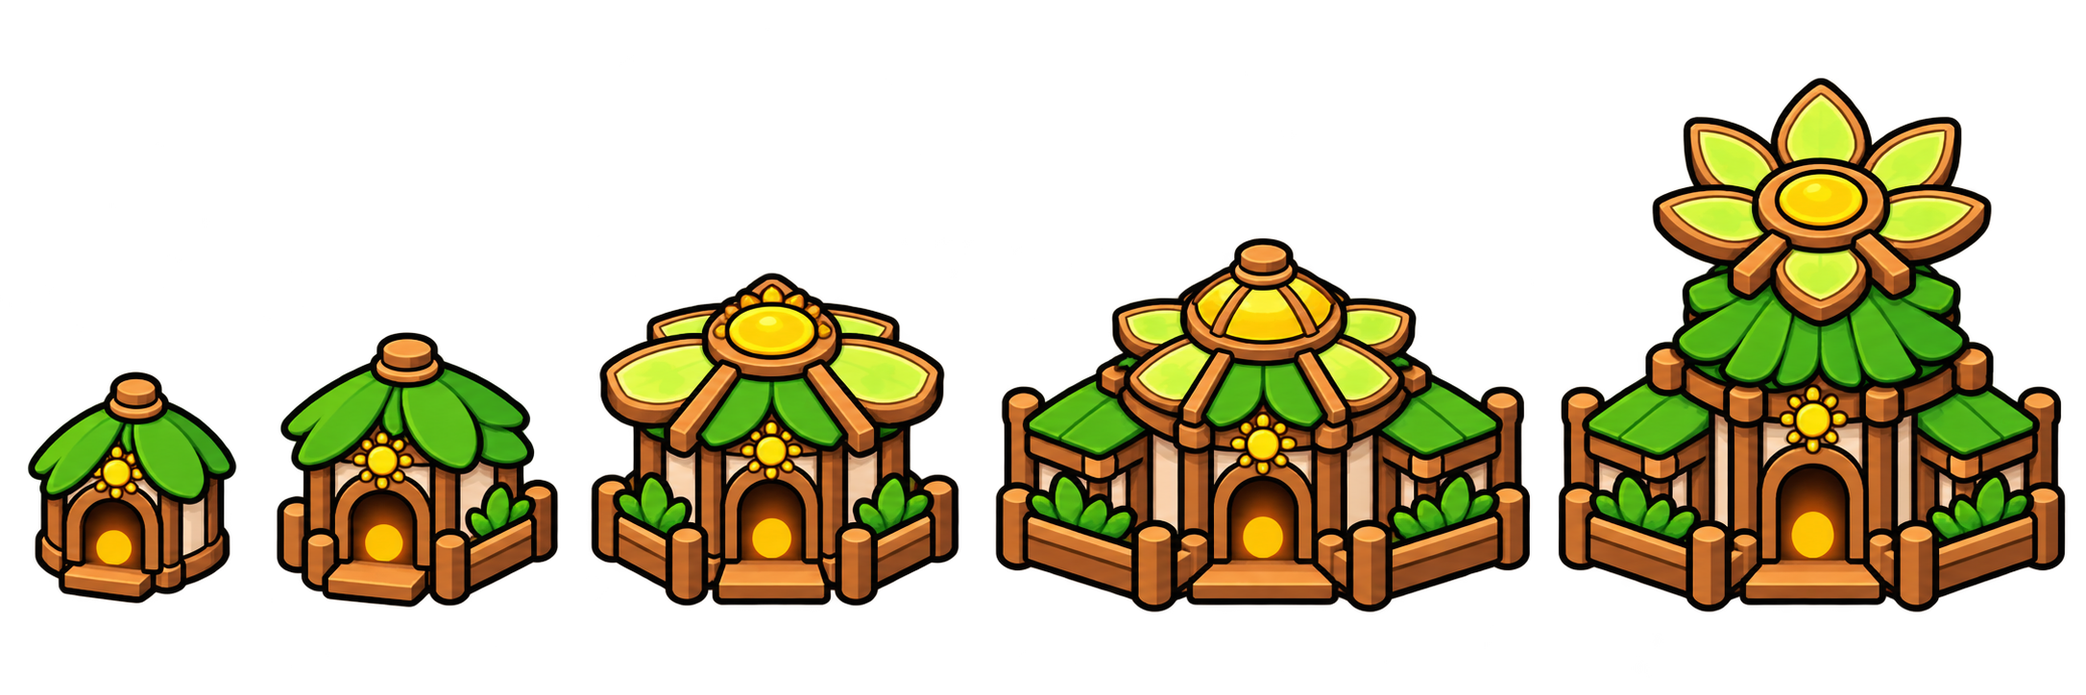
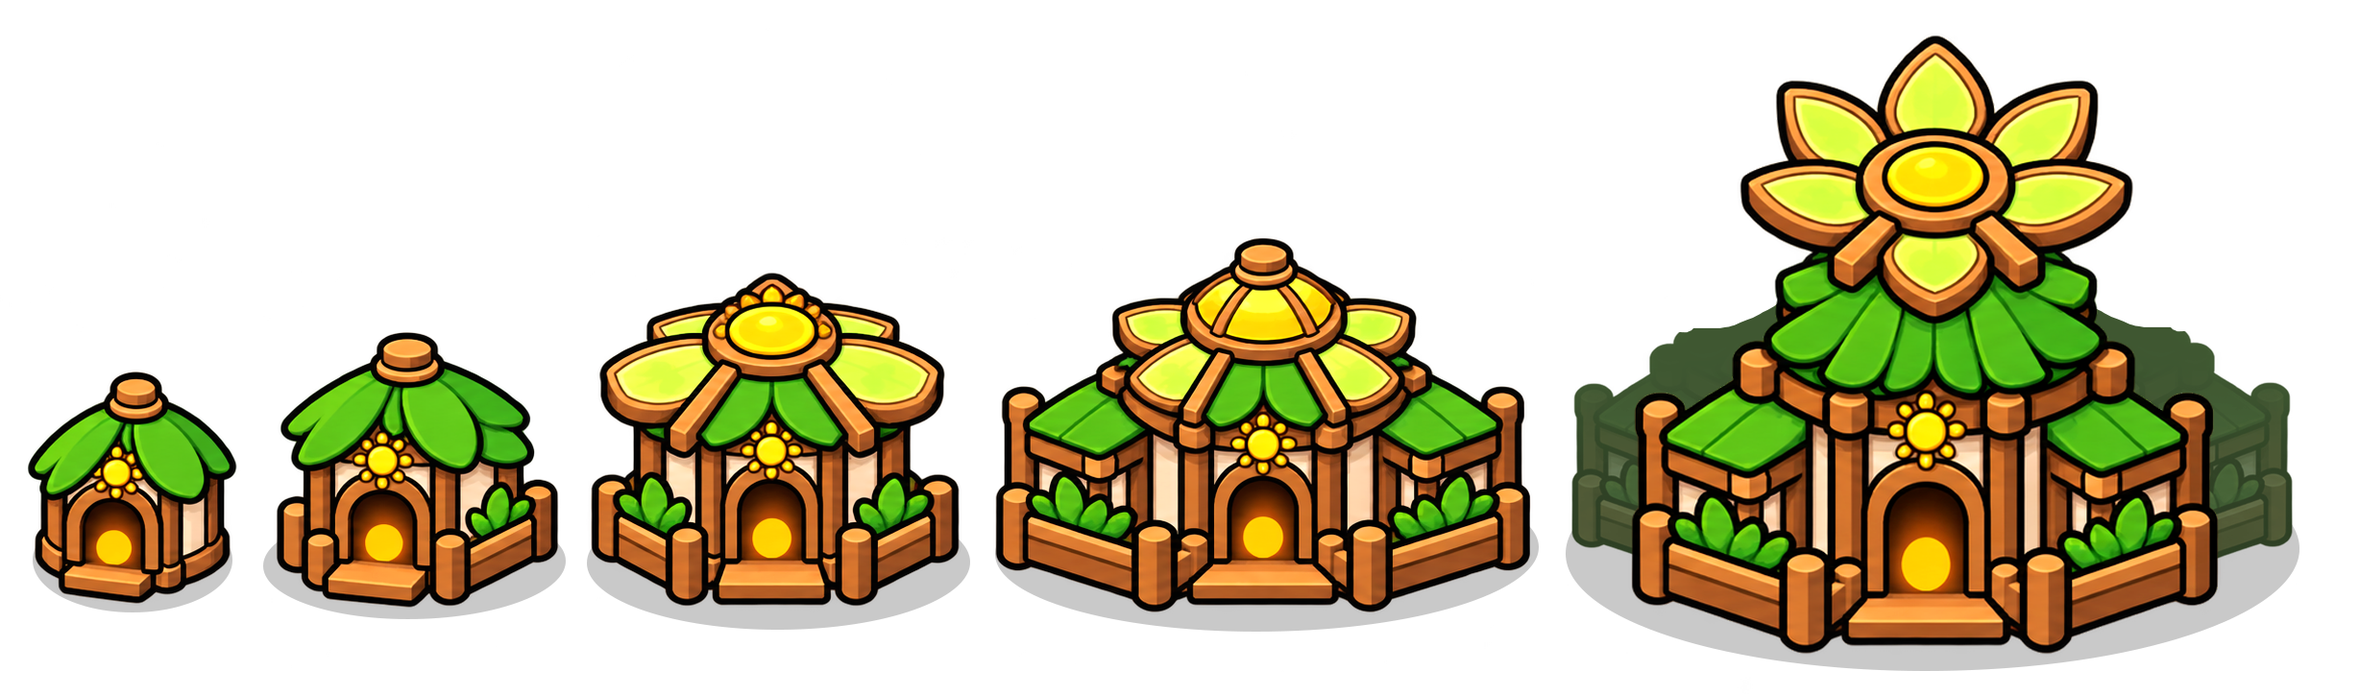
Publish merge ready particles and contact shadow garden bases

diff --git a/fvz_base_defense/library/art-directions/cartoon-v5/preview.js b/fvz_base_defense/library/art-directions/cartoon-v5/preview.js
@@ -29,7 +29,7 @@ let baseTier=0,baseMaxHp=140,baseHp=140,baseHitUntil=0;
 const baseAtlas=new Image();baseAtlas.src="../../../assets/cartoon-v5-garden-base.png";await baseAtlas.decode();
 const combatVfx=new Image();combatVfx.src="../../../assets/cartoon-v5-combat-vfx.png";await combatVfx.decode();
 const homeField=new Image();homeField.src="../../../assets/cartoon-v5-home-field.png";await homeField.decode();
-const baseBounds=[[28,386,219,244],[287,345,295,289],[614,283,386,349],[1035,247,560,392],[1621,80,531,559]];
+const baseBounds=[[29,387,218,251],[274,346,315,299],[611,284,399,372],[1036,248,566,410],[1630,37,764,662]];
 const sproutPattern=new Image();sproutPattern.src='../../../assets/cartoon-v5-plants-sprout-transparent.png';await sproutPattern.decode();
 function neutralPlant(source){const cv=document.createElement('canvas');cv.width=300;cv.height=300;const b=source,w=b[2]-b[0],h=b[3]-b[1],z=Math.min(280/w,280/h);cv.getContext('2d').drawImage(rigs.poppy.image,b[0],b[1],w,h,150-w*z/2,290-h*z,w*z,h*z);return cv.toDataURL('image/png');}
 const plantRoster=createPlantsRoster({root:$('#plants-grid'),portraits:{chili:neutralPlant(rigs.poppy.source),sunflower:neutralPlant([372,120,747,500]),acorn:neutralPlant(rigs.bellflower.source),pinecone:neutralPlant(rigs.marigold.source)},skins:uiSkins,getCoins:()=>coins,spendCoins:amount=>{if(coins<amount)return false;coins-=amount;$('#coins').textContent=coins;return true;},onSelect:id=>{const cls=({chili:'poppy',acorn:'bellflower',pinecone:'marigold'})[id];if(cls){$('#player-class').value=cls;updateEvolution();}}});
@@ -52,13 +52,24 @@ function ellipse(x,y,rx,ry,color){g.beginPath();g.ellipse(x,y,rx,ry,0,0,Math.PI*
 function label(text,x,y,size=15,color='#fff8de'){g.font=`900 ${size}px GameChunk,sans-serif`;g.textAlign='center';g.textBaseline='middle';g.strokeStyle='#233b2c';g.lineWidth=3;g.lineJoin='round';g.strokeText(text,x,y);g.fillStyle=color;g.fillText(text,x,y);}
 function sprite(id,x,footY,height,{flip=false,alpha=1,bounce=0,recoil=0,action="idle",phase=0,star=previewStar,hit=0}={}){if(rigs[id]){drawRig(g,rigs,id,x,footY,height,{time:time+phase,flip,alpha,attack:recoil/2,action,star,hit});return;}const row=art[id],b=row.bounds||[0,0,row.width,row.height],sw=b[2]-b[0],sh=b[3]-b[1],w=height*sw/sh;g.save();g.translate(x,footY);g.scale(flip?-1:1,1);g.globalAlpha=alpha;g.translate(-recoil,0);g.scale(1+bounce*.06,1-bounce*.04);g.drawImage(row.image,b[0],b[1],sw,sh,-w/2,-height,w,height);g.restore();}
 function bar(x,y,p,width=42,ally=false){round(x-width/2,y,width,7,3,'#243b2e');round(x-width/2+2,y+2,(width-4)*Math.max(0,p),3,2,ally?'#b5ed58':'#ff8b68');}
-function drawGrid(cx,cy,scale=1){g.save();g.translate(cx,cy);g.scale(1,.7);const aura=g.createRadialGradient(0,0,10,0,0,350*scale);aura.addColorStop(0,"#fff1a838");aura.addColorStop(.5,"#fff1a81f");aura.addColorStop(1,"#fff1a800");g.fillStyle=aura;g.fillRect(-355*scale,-355*scale,710*scale,710*scale);g.restore();for(let i=0;i<8;i++){const [dx,dy]=slotOffsets[i];const x=cx+dx*scale,y=cy+dy*scale;g.save();g.translate(x,y);g.rotate(Math.PI/4);round(-30*scale,-30*scale,60*scale,60*scale,8*scale,(previewStage==='camp'?'#637c76':previewStage==='dune'||previewStage==='oasis'?'#bc925a':'#778744'),(previewStage==='camp'?'#465e5b':'#778744'),2*scale);g.restore();}const b=baseBounds[baseTier],h=baseHeights[baseTier]*scale,bw=h*b[2]/b[3];g.save();g.translate(cx,cy+30*scale);g.transform(1,0,-.65,-.16,0,0);g.filter='brightness(0)';g.globalAlpha=.19;g.drawImage(baseAtlas,...b,-bw/2,-h,bw,h);g.restore();ellipse(cx,cy+29*scale,bw*.36,2.5*scale,'#20301d65');g.drawImage(baseAtlas,...b,cx-h*b[2]/b[3]/2,cy+30*scale-h,h*b[2]/b[3],h);if(scene==='battle'&&!bossIntro&&time<baseHitUntil){bar(cx,cy-h-2,baseHp/baseMaxHp,88,true);label(Math.ceil(baseHp)+' / '+baseMaxHp,cx,cy-h-13,11);}}
+function drawGrid(cx,cy,scale=1){g.save();g.translate(cx,cy);g.scale(1,.7);const aura=g.createRadialGradient(0,0,10,0,0,350*scale);aura.addColorStop(0,"#fff1a838");aura.addColorStop(.5,"#fff1a81f");aura.addColorStop(1,"#fff1a800");g.fillStyle=aura;g.fillRect(-355*scale,-355*scale,710*scale,710*scale);g.restore();for(let i=0;i<8;i++){const [dx,dy]=slotOffsets[i];const x=cx+dx*scale,y=cy+dy*scale;g.save();g.translate(x,y);g.rotate(Math.PI/4);round(-30*scale,-30*scale,60*scale,60*scale,8*scale,(previewStage==='camp'?'#637c76':previewStage==='dune'||previewStage==='oasis'?'#bc925a':'#778744'),(previewStage==='camp'?'#465e5b':'#778744'),2*scale);g.restore();}const b=baseBounds[baseTier],h=baseHeights[baseTier]*scale,bw=h*b[2]/b[3];g.drawImage(baseAtlas,...b,cx-h*b[2]/b[3]/2,cy+30*scale-h,h*b[2]/b[3],h);if(scene==='battle'&&!bossIntro&&time<baseHitUntil){bar(cx,cy-h-2,baseHp/baseMaxHp,88,true);label(Math.ceil(baseHp)+' / '+baseMaxHp,cx,cy-h-13,11);}}
 function drawRange(type,x,y){const r=ranges[type];g.save();const grad=g.createRadialGradient(x,y,r*.93,x,y,r+9);grad.addColorStop(0,'#fff9b610');grad.addColorStop(.65,'#fffbcb85');grad.addColorStop(1,'#fffacf00');g.fillStyle=grad;g.beginPath();g.arc(x,y,r+9,0,Math.PI*2);g.fill();g.fillStyle='#eeffca19';g.beginPath();g.arc(x,y,r,0,Math.PI*2);g.fill();g.setLineDash([8,6]);g.strokeStyle='#efffbcbb';g.lineWidth=2;g.stroke();g.restore();}
 function drawSelection(){if(!drag&&(!rangePreview||time>rangePreview.until))return;const type=drag?.type??rangePreview.type,p=drag||position(rangePreview.slot);drawRange(type,p.x,p.y);if(drag){const slot=nearestSlot(drag);if(slot>=0){const at=position(slot),occupant=units.find(u=>u.slot===slot&&u!==drag.unit),valid=!occupant||(occupant.type===drag.type&&occupant.level===(drag.unit?.level||1));g.save();g.translate(at.x,at.y);g.rotate(Math.PI/4);round(-30,-30,60,60,8,valid?'#bced6a99':'#ff775c99',valid?'#f3ffb7':'#ffddc1',3);g.restore();}}}
+function drawMergeReady(){
+ if(!drag)return;
+ const level=drag.unit?.level||1,clock=performance.now()/1000;
+ for(const u of units){
+  if(u===drag.unit||u.type!==drag.type||u.level!==level||u.level>=10)continue;
+  const p=position(u.slot),hover=nearestSlot(drag)===u.slot,pulse=.65+Math.sin(clock*5+u.slot)*.2;
+  g.save();g.translate(p.x,p.y);g.rotate(Math.PI/4);g.shadowColor='#b8ff65';g.shadowBlur=hover?15:7;g.strokeStyle=`rgba(177,255,91,${pulse})`;g.lineWidth=hover?5:3;g.strokeRect(-29,-29,58,58);g.restore();
+  g.save();const beam=g.createLinearGradient(0,p.y+15,0,p.y-95);beam.addColorStop(0,'#d6ff7845');beam.addColorStop(1,'#eeffd500');g.fillStyle=beam;g.fillRect(p.x-22,p.y-95,44,110);
+  for(let i=0;i<8;i++){const phase=(clock*.65+i*.137+u.slot*.17)%1,x=p.x+Math.sin(i*7.3+u.slot)*18,y=p.y+8-phase*108;g.globalAlpha=Math.sin(phase*Math.PI)*.9;g.fillStyle=i%2?'#fffce3':'#dbff9a';g.beginPath();g.ellipse(x,y,1.5+i%2,3+i%3,0,0,Math.PI*2);g.fill();}g.restore();
+ }
+}
 function render(){g.setTransform(ratio,0,0,ratio,0,0);g.clearRect(0,0,W,H);g.save();const focus=introWeight();if(focus){const boss=bossIntro.boss,z=1+focus*.75;g.translate(W/2+W*.06*focus,H*.49);g.scale(z,z);g.translate(-(W/2+(boss.x-W/2)*focus),-(H*.49+(boss.y-65-H*.49)*focus));}drawStageBackground();if(scene==='plants'){g.restore();return;}if(scene==='home'){drawGrid(345,315,1.08);g.restore();return;}drawSelection();drawGrid(center.x,center.y);const actors=[...units.filter(u=>u!==drag?.unit).map(u=>({kind:'plant',u,y:position(u.slot).y})),...enemies.filter(e=>e!==bossIntro?.boss).map(e=>({kind:'enemy',e,y:e.y}))].sort((a,b)=>a.y-b.y);for(const actor of actors){if(actor.kind==='plant'){const u=actor.u,p=position(u.slot),bob=paused?0:Math.sin(time*2+u.slot)*.8;const bounce=u.age<.28?Math.sin(u.age/.28*Math.PI):0;sprite(names[u.type],p.x,p.y+22+bob,67+Math.min(4,u.level-1)*1.5,{flip:u.flip,bounce,star:u.level,hit:(u.hit||0)/.26,recoil:Math.sin(u.recoil/.16*Math.PI)*2});}else{const e=actor.e,size=e.kind==='boss'?150:e.kind==='bruiser'?85:e.kind==='courier'?60:57;sprite(e.kind,e.x,e.y+8+Math.sin(time*5+e.phase)*1.8,size,{flip:e.flip,phase:e.phase,hit:e.hit/.26,recoil:Math.sin(e.recoil/.2*Math.PI)*3,action:e.moving?'walk':e.recoil>0?'attack':'idle'});if(e.hp<e.maxHp)bar(e.x,e.y-size-4,e.hp/e.maxHp,e.kind==='bruiser'?58:36);}}
 for(const shot of shots){const angle=Math.atan2(shot.ty-shot.sy,shot.tx-shot.sx);g.save();g.translate(shot.x,shot.y);g.rotate(angle);g.lineJoin='round';g.lineWidth=2;g.strokeStyle='#172725';if(shot.enemy){g.fillStyle='#b27ce9';g.beginPath();g.moveTo(10,0);g.lineTo(-3,-6);g.lineTo(-8,0);g.lineTo(-3,6);g.closePath();g.fill();g.stroke();ellipse(-9,0,5,2,'#c6a3f46a');}else if(shot.type===0){ellipse(-10,0,12,2,'#d5fc5599');ellipse(0,0,6,4,'#b8ef41');g.stroke();ellipse(2,-1,2,1,'#fff8c7');}else if(shot.type===1){g.strokeStyle='#f8e1a3';g.lineWidth=4;g.beginPath();g.moveTo(-23,0);g.lineTo(4,0);g.stroke();g.fillStyle='#e6f6c8';g.strokeStyle='#1b382b';g.lineWidth=2;g.beginPath();g.moveTo(13,0);g.lineTo(2,-5);g.lineTo(2,5);g.closePath();g.fill();g.stroke();}else{ellipse(-8,0,12,5,'#ffab3877');ellipse(0,0,9,7,'#ac6831');g.stroke();g.strokeStyle='#ffe19a';g.beginPath();g.moveTo(-4,-4);g.lineTo(4,4);g.moveTo(1,-5);g.lineTo(-3,4);g.stroke();}g.restore();}
 for(const effect of effects){const a=effect.life/effect.max;if(effect.kind==='soul'){g.save();g.globalAlpha=Math.min(1,a*2);const h=(effect.size===30?88:47)*(1+(1-a)*.15),x=effect.x+Math.sin((1-a)*8)*7,y=effect.y-(1-a)*85;g.drawImage(combatVfx,120,45,550,800,x-h*.344,y-h*.6,h*.688,h);g.restore();}else if(effect.kind==='blast'){g.save();g.globalAlpha=a;g.strokeStyle='#f7bd54';g.lineWidth=3;g.fillStyle='#ed9a2530';g.beginPath();g.arc(effect.x,effect.y,effect.radius*(1-a),0,Math.PI*2);g.fill();g.stroke();g.restore();}else if(effect.kind==='merge'){g.save();const age=1-a,z=.65+Math.sin(Math.min(1,age*2)*Math.PI/2)*.4;g.globalAlpha=Math.min(1,a*3,age*7);const w=150*z,h=139*z;g.drawImage(combatVfx,850,20,920,850,effect.x-w/2,effect.y+27-h,w,h);label(effect.level===10?'LEGENDARY!':'STAR UP!',effect.x,effect.y-85-age*10,21,effect.level===10?'#ffdb32':'#fff7c5');label('★ '+effect.level,effect.x,effect.y-63-age*10,17,'#ffe260');g.restore();}else{g.save();g.globalAlpha=a;label(effect.text,effect.x,effect.y-(1-a)*28,14,effect.enemy?'#dfb3ff':'#fff9d6');g.restore();}}
-if(drag){ellipse(drag.x,drag.y+18,25,8,'#294e3836');sprite(names[drag.type],drag.x,drag.y+20,70,{alpha:.94,bounce:0});}g.restore();if(focus){g.fillStyle=`rgba(10,21,18,${focus*.24})`;g.fillRect(0,0,W,H);const boss=bossIntro.boss,z=1+focus*.75;g.save();g.translate(W/2+W*.06*focus,H*.49);g.scale(z,z);g.translate(-(W/2+(boss.x-W/2)*focus),-(H*.49+(boss.y-65-H*.49)*focus));sprite('boss',boss.x,boss.y+8,200,{flip:boss.flip,phase:boss.phase,action:'idle'});g.restore();}}
+drawMergeReady();if(drag){ellipse(drag.x,drag.y+18,25,8,'#294e3836');sprite(names[drag.type],drag.x,drag.y+20,70,{alpha:.94,bounce:0});}g.restore();if(focus){g.fillStyle=`rgba(10,21,18,${focus*.24})`;g.fillRect(0,0,W,H);const boss=bossIntro.boss,z=1+focus*.75;g.save();g.translate(W/2+W*.06*focus,H*.49);g.scale(z,z);g.translate(-(W/2+(boss.x-W/2)*focus),-(H*.49+(boss.y-65-H*.49)*focus));sprite('boss',boss.x,boss.y+8,200,{flip:boss.flip,phase:boss.phase,action:'idle'});g.restore();}}
 function update(dt){time+=dt;if(scene!=='battle')return;sun=Math.min(99,sun+dt*1.2);for(const u of units){u.age+=dt;u.hit=Math.max(0,(u.hit||0)-dt);u.recoil=Math.max(0,u.recoil-dt);u.fire-=dt;const p=position(u.slot),target=enemies.filter(e=>Math.hypot(e.x-p.x,e.y-p.y)<ranges[u.type]).sort((a,b)=>Math.hypot(a.x-p.x,a.y-p.y)-Math.hypot(b.x-p.x,b.y-p.y))[0];if(target){u.flip=target.x<p.x;if(u.fire<=0){u.fire=[.38,1.05,1.65][u.type];u.recoil=.16;shots.push({x:p.x+(u.flip?-22:22),y:p.y-12,sx:p.x+(u.flip?-22:22),sy:p.y-12,tx:target.x,ty:target.y-16,target,type:u.type,damage:[6,22,35][u.type]*u.level,enemy:false});}}}
 for(const e of enemies){e.hit=Math.max(0,e.hit-dt);e.recoil=Math.max(0,e.recoil-dt);e.fire-=dt;const target=units.map(u=>({u,p:position(u.slot)})).sort((a,b)=>Math.hypot(a.p.x-e.x,a.p.y-e.y)-Math.hypot(b.p.x-e.x,b.p.y-e.y))[0];const aim=e.kind==='courier'&&target?target.p:center;const dx=aim.x-e.x,dy=aim.y-e.y,d=Math.hypot(dx,dy),stop=e.kind==='courier'?260:93,velocity=e.kind==='boss'?(e.introduced?12:75):e.kind==='bruiser'?30:42;e.flip=aim.x<e.x;e.moving=moveEnemy(e,aim,dt,velocity,stop,stageObstacles(previewStage));if(e.kind==='boss'&&!e.introduced&&e.x>120&&e.x<1080&&e.y>100&&e.y<430&&d<380&&!bossIntro)startBossIntro();if(!e.moving&&d<=stop+2&&e.fire<=0&&!bossIntro){e.fire=e.kind==='courier'?1.9:e.kind==='boss'?2.4:1.6;e.recoil=.2;if(e.kind==='courier'){const sx=e.x+(e.flip?-18:18),sy=e.y-22;shots.push({x:sx,y:sy,sx,sy,tx:aim.x,ty:aim.y-12,type:0,enemy:true,targetUnit:target?.u,targetBase:!target});}else{baseHp=Math.max(1,baseHp-(e.kind==='boss'?8:e.kind==='bruiser'?5:2));baseHitUntil=time+3;effects.push({kind:'damage',x:center.x,y:center.y-65,text:'-'+(e.kind==='boss'?8:e.kind==='bruiser'?5:2),enemy:true,life:.65,max:.65});}}}
 for(const s of shots){const dx=s.tx-s.x,dy=s.ty-s.y,d=Math.hypot(dx,dy),step=340*dt;if(d<=step){s.dead=true;if(s.enemy&&s.targetUnit)s.targetUnit.hit=.26;if(s.targetBase){baseHp=Math.max(1,baseHp-3);baseHitUntil=time+3;}effects.push({kind:'damage',x:s.tx,y:s.ty-20,text:s.enemy?'3':String(s.damage),enemy:s.enemy,life:.65,max:.65});if(s.target){hitEnemy(s.target,s.damage);if(s.type===2){effects.push({kind:'blast',x:s.tx,y:s.ty,radius:62,life:.35,max:.35});for(const e of [...enemies])if(e!==s.target&&Math.hypot(e.x-s.tx,e.y-16-s.ty)<62)hitEnemy(e,s.damage*.6);}if(s.type===1){for(const e of [...enemies]){if(e===s.target)continue;const ax=s.tx-s.sx,ay=s.ty-s.sy,l2=ax*ax+ay*ay,t=((e.x-s.sx)*ax+(e.y-16-s.sy)*ay)/l2;if(t>.25&&t<1.3&&Math.hypot(e.x-(s.sx+t*ax),e.y-16-(s.sy+t*ay))<18)hitEnemy(e,s.damage*.75);}}}}else{s.x+=dx/d*step;s.y+=dy/d*step;}}
@@ -130,3 +141,5 @@ if(new URLSearchParams(location.search).get('editor')==='base-size'&&window.pare
   });
   window.parent.postMessage({type:'fvz-base-size-ready'},location.origin);
 }
+
+$("#preview-merge-ready").onclick=()=>{endBossIntro();setScene("battle");setPaused(false);focusStage(true);drag={x:780,y:370,type:0,unit:null,pointer:-1};setTimeout(()=>{if(drag?.pointer===-1)drag=null;},12000);};

diff --git a/fvz_base_defense/library/art-directions/cartoon-v5/index.html b/fvz_base_defense/library/art-directions/cartoon-v5/index.html
@@ -13,7 +13,7 @@
 <main>
 <header class="page-head"><div><a href="../">← 비주얼 라이브러리</a><h1>플랜트 서바이버 v5 <span>일체형 식물 · 클래스별 1–10성 장비</span></h1></div><a class="download-all" href="cartoon-v5-resources.zip" download>투명 리소스 묶음 ↓</a></header>
 <div class="preview-tools"><div class="view-switch" role="group" aria-label="프리뷰 화면"><button id="view-battle" class="active" aria-pressed="true">인게임</button><button id="view-home" aria-pressed="false">메인 화면</button><a href="#motion-lab">캐릭터·움직임</a><a href="#equipment-lab">1–10성 장비</a></div><div><button id="stage-mode" aria-pressed="false">화면만 보기</button><button id="pause" aria-pressed="false">연출 정지</button><button id="reset">처음 장면</button></div></div>
-<section class="direction-note"><span>PLANT SURVIVORS · CLASS & GEAR</span><h2>식물은 유지하고, 몸과 동작은 더 단순하게</h2><p>일체형 식물 3종 · 과장된 통통 모션과 바닥 그림자 · 클래스별 1–10성 무기. <a href="../cartoon-v4/">보관한 v4 원본 →</a></p></section><section class="combat-controls"><label>스테이지 <select id="stage-preset"><option value="green">GREEN BLOCK · Forest</option><option value="dune">DUNE LOOP · Mummies</option><option value="camp">FOREST CAMP · Ghosts / Vampires</option><option value="oasis">OASIS CROSS · Mummies</option></select></label><label>플레이어 클래스 <select id="player-class"><option value="poppy">PEPPER SCOUT</option><option value="bellflower">ACORN MARKSMAN</option><option value="marigold">PINECONE GUNNER</option></select></label><label>장비 성장 <input id="star-level" type="range" min="1" max="10" value="1"><strong id="star-label">1 STAR</strong></label><button id="replay-boss" type="button">Replay Boss Entrance</button><button id="preview-merge" type="button">Preview Star Upgrade</button><button id="preview-soul" type="button">Preview Soul Exit</button><a href="base-size-editor.html">기지 크기 조절</a><p id="class-skill">RAPID SEED FIRE</p></section><section id="game-frame" class="game-frame battle" aria-label="Garden defense design preview"><div id="scene-splash" hidden role="status" aria-live="polite"><img id="splash-logo" alt="Flower vs Zombie: Base Defense"><strong id="splash-label">PREPARE YOUR DEFENSE</strong><span class="splash-dots">LOADING THE GARDEN</span></div><div id="boss-cinematic" hidden role="status" aria-live="polite"><div class="cinema-bar top"></div><div class="boss-title"><span>BOSS INCOMING</span><strong id="boss-name">BRASS COMMANDER</strong><small>THE BATTLE JUST GOT BIGGER</small></div><div class="cinema-bar bottom"></div><button id="skip-boss" type="button">SKIP INTRO</button></div>
+<section class="direction-note"><span>PLANT SURVIVORS · CLASS & GEAR</span><h2>식물은 유지하고, 몸과 동작은 더 단순하게</h2><p>일체형 식물 3종 · 과장된 통통 모션과 바닥 그림자 · 클래스별 1–10성 무기. <a href="../cartoon-v4/">보관한 v4 원본 →</a></p></section><section class="combat-controls"><label>스테이지 <select id="stage-preset"><option value="green">GREEN BLOCK · Forest</option><option value="dune">DUNE LOOP · Mummies</option><option value="camp">FOREST CAMP · Ghosts / Vampires</option><option value="oasis">OASIS CROSS · Mummies</option></select></label><label>플레이어 클래스 <select id="player-class"><option value="poppy">PEPPER SCOUT</option><option value="bellflower">ACORN MARKSMAN</option><option value="marigold">PINECONE GUNNER</option></select></label><label>장비 성장 <input id="star-level" type="range" min="1" max="10" value="1"><strong id="star-label">1 STAR</strong></label><button id="replay-boss" type="button">Replay Boss Entrance</button><button id="preview-merge-ready" type="button">Preview Merge Ready</button><button id="preview-merge" type="button">Preview Star Upgrade</button><button id="preview-soul" type="button">Preview Soul Exit</button><a href="base-size-editor.html">기지 크기 조절</a><p id="class-skill">RAPID SEED FIRE</p></section><section id="game-frame" class="game-frame battle" aria-label="Garden defense design preview"><div id="scene-splash" hidden role="status" aria-live="polite"><img id="splash-logo" alt="Flower vs Zombie: Base Defense"><strong id="splash-label">PREPARE YOUR DEFENSE</strong><span class="splash-dots">LOADING THE GARDEN</span></div><div id="boss-cinematic" hidden role="status" aria-live="polite"><div class="cinema-bar top"></div><div class="boss-title"><span>BOSS INCOMING</span><strong id="boss-name">BRASS COMMANDER</strong><small>THE BATTLE JUST GOT BIGGER</small></div><div class="cinema-bar bottom"></div><button id="skip-boss" type="button">SKIP INTRO</button></div>
 <canvas id="world" width="1200" height="680" aria-label="Greenhouse, eight deployment tiles, plant soldiers and zombies"></canvas><section id="plants-grid" class="plants-only" aria-label="Plant collection"></section>
 <button class="game-settings" id="settings" aria-label="Preview information"><svg class="asset-icon " viewBox="455 480 350 345" aria-hidden="true"><defs><clipPath id="sprite-clip-0"><rect x="455" y="480" width="350" height="345"/></clipPath></defs><g clip-path="url(#sprite-clip-0)"><image href="../../../assets/cartoon-v4-ui-icons.png" width="1254" height="1254"/></g></svg></button>
 <div class="currency"><svg class="asset-icon " viewBox="465 100 315 330" aria-hidden="true"><defs><clipPath id="sprite-clip-1"><rect x="465" y="100" width="315" height="330"/></clipPath></defs><g clip-path="url(#sprite-clip-1)"><image href="../../../assets/cartoon-v4-ui-icons.png" width="1254" height="1254"/></g></svg><strong id="coins">235</strong></div>

diff --git a/fvz_base_defense/library/art-directions/cartoon-v5/base-size-editor.js b/fvz_base_defense/library/art-directions/cartoon-v5/base-size-editor.js
@@ -1,11 +1,11 @@
-const defaults=[62,78,96,114,136],bounds=[[28,386,219,244],[287,345,295,289],[614,283,386,349],[1035,247,560,392],[1621,80,531,559]],key='fvz-base-size-v1';
+const defaults=[62,78,96,114,136],bounds=[[29,387,218,251],[274,346,315,299],[611,284,399,372],[1036,248,566,410],[1630,37,764,662]],key='fvz-base-size-v1';
 const $=s=>document.querySelector(s),valid=a=>Array.isArray(a)&&a.length===5&&a.every(n=>Number.isInteger(n)&&n>=40&&n<=240);
 let heights=[...defaults],active=0;try{const a=JSON.parse(localStorage.getItem(key));if(valid(a))heights=a;}catch{}
 const image=new Image();image.src='../../../assets/cartoon-v5-garden-base.png';await image.decode();
 $('#tiers').innerHTML=heights.map((n,i)=>`<article class="tier" data-tier="${i}"><button type="button" data-show="${i}">${i+1}단계 · 화면에서 보기</button><canvas width="300" height="280" aria-label="${i+1}단계 기지 크기 비교"></canvas><input aria-label="${i+1}단계 크기 슬라이더" type="range" min="40" max="240" step="1" value="${n}"><div class="size-row"><label>크기 <input aria-label="${i+1}단계 크기" type="number" min="40" max="240" step="1" value="${n}"></label><output></output></div></article>`).join('');
 function payload(){return{schema:'fvz-base-size/v1',heights:[...heights],relativeToDefault:heights.map((h,i)=>Math.round(h/defaults[i]*100)),unit:'world-pixels'};}
 function send(){ $('#game').contentWindow.postMessage({type:'fvz-base-size-preview',heights:[...heights],tier:active},location.origin); }
-function draw(){document.querySelectorAll('.tier').forEach((card,i)=>{card.classList.toggle('active',i===active);card.querySelectorAll('input').forEach(input=>input.value=heights[i]);card.querySelector('output').textContent=Math.round(heights[i]/defaults[i]*100)+'%';const g=card.querySelector('canvas').getContext('2d'),h=heights[i],b=bounds[i],w=h*b[2]/b[3];g.clearRect(0,0,300,280);g.fillStyle='#94a85c';g.fillRect(0,0,300,280);const glow=g.createRadialGradient(150,160,5,150,160,160);glow.addColorStop(0,'#fff1a83d');glow.addColorStop(1,'#fff1a800');g.fillStyle=glow;g.fillRect(0,0,300,280);g.save();g.translate(150,248);g.transform(1,0,-.65,-.16,0,0);g.filter='brightness(0)';g.globalAlpha=.19;g.drawImage(image,...b,-w/2,-h,w,h);g.restore();g.fillStyle='#20301d65';g.beginPath();g.ellipse(150,247,w*.36,2.5,0,0,Math.PI*2);g.fill();g.drawImage(image,...b,150-w/2,248-h,w,h);});$('#export').value=JSON.stringify(payload(),null,2);try{localStorage.setItem(key,JSON.stringify(heights));}catch{}send();}
+function draw(){document.querySelectorAll('.tier').forEach((card,i)=>{card.classList.toggle('active',i===active);card.querySelectorAll('input').forEach(input=>input.value=heights[i]);card.querySelector('output').textContent=Math.round(heights[i]/defaults[i]*100)+'%';const g=card.querySelector('canvas').getContext('2d'),h=heights[i],b=bounds[i],w=h*b[2]/b[3];g.clearRect(0,0,300,280);g.fillStyle='#94a85c';g.fillRect(0,0,300,280);const glow=g.createRadialGradient(150,160,5,150,160,160);glow.addColorStop(0,'#fff1a83d');glow.addColorStop(1,'#fff1a800');g.fillStyle=glow;g.fillRect(0,0,300,280);g.drawImage(image,...b,150-w/2,248-h,w,h);});$('#export').value=JSON.stringify(payload(),null,2);try{localStorage.setItem(key,JSON.stringify(heights));}catch{}send();}
 document.querySelectorAll('.tier').forEach((card,i)=>{card.querySelector('[data-show]').onclick=()=>{active=i;draw();};card.querySelectorAll('input').forEach(input=>input.addEventListener('input',()=>{const n=Number(input.value);if(Number.isInteger(n)&&n>=40&&n<=240){heights[i]=n;active=i;draw();}}));card.querySelector('input[type=number]').addEventListener('change',draw);});
 $('#smaller').onclick=()=>{heights=heights.map(n=>Math.max(40,Math.round(n*.95)));draw();};$('#larger').onclick=()=>{heights=heights.map(n=>Math.min(240,Math.round(n*1.05)));draw();};$('#defaults').onclick=()=>{heights=[...defaults];draw();$('#status').textContent='기본 크기로 복원했습니다.';};
 $('#copy').onclick=async()=>{try{await navigator.clipboard.writeText($('#export').value);$('#status').textContent='복사했습니다. 채팅에 붙여넣어 전달해주세요.';}catch{$('#export').focus();$('#export').select();$('#status').textContent='설정 내용을 선택했습니다. Ctrl+C로 복사해주세요.';}};
